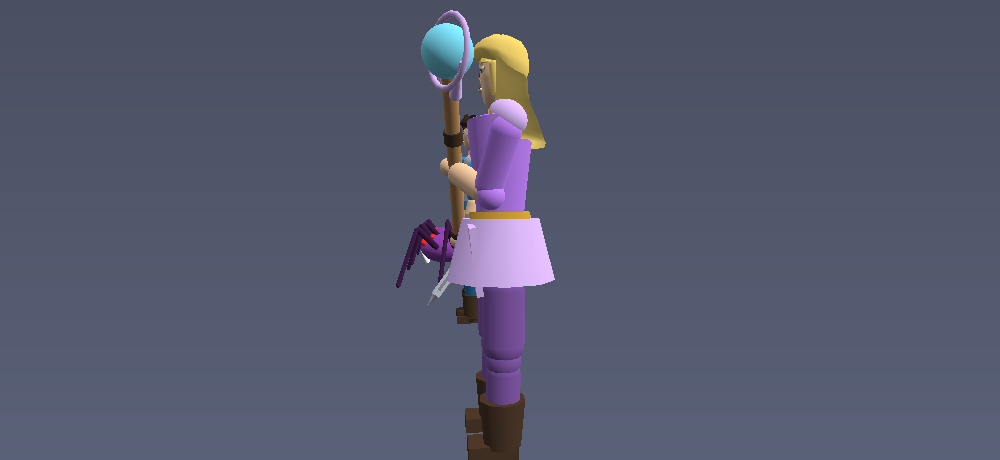
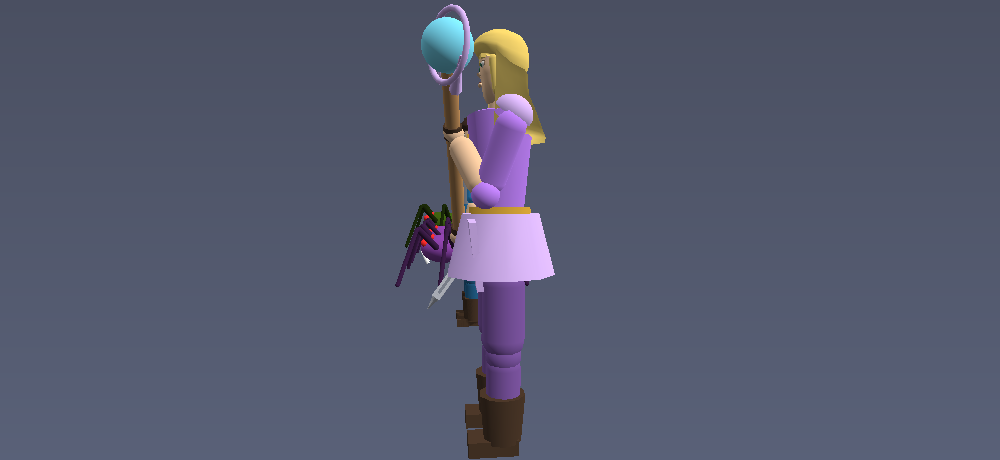
Плечо Елены, хват, направление каста, пояс и сумка Рюдо
Пять замечаний по силуэтам.

- ПРАВОЕ ПЛЕЧО ЕЛЕНЫ отрывалось от тела на 0.045. Причина: сустав стоит
  на x=0.50 у обоих (от него зависит хват посоха), а грудь у женской
  фигуры уже — 0.70 против 0.78. Добавлен armInset: меш плеча и
  наплечник подбираются к телу, сам сустав не тронут.
- ЛЕВАЯ КИСТЬ висела в 0.060 от оси древка при его радиусе 0.045 —
  между ладонью и посохом была щель. Пересчитано: промах 0.006.
- КАСТ В ЦЕЛЬ выносил посох вперёд, но кончик смотрел мимо (ось.z=0.39).
  Пересчитано с явным условием на направление: ось.z=0.75.
- ПОЯС РЮДО терялся сзади: его глубина 0.234 против 0.25 у ягодиц, он
  уходил под них. Расширен и сдвинут назад.
- ПОЯСНАЯ СУМКА читалась плоской 2D-полоской: 0.12 x 0.18 x 0.14, сзади
  виден только торец. Сделана почти кубической.

Следом пересчитаны windup, castTarget и castSelf: значения STAFF_POSES —
добавки к позе покоя, и после её правки хват рвался (0.22-0.27).

Пять новых тестов, все мутации ловятся. Мутацию на направление каста
пришлось делать точечной: грубая подмена позы роняла соседний тест по
хвату, и проверка направления оставалась недоказанной.

diff --git a/src/render/models.js b/src/render/models.js
@@ -59,8 +59,13 @@ export function createHumanoid(scene, {
     // плечами, широким тазом и более тонкими конечностями.
     const female = build === 'female';
     const B = {
-        shoulderX: 0.5,                      // разнос плеч: одинаков —
-                                             // от него зависит хват посоха
+        // Разнос плеч одинаков у обоих: от него зависит геометрия хвата
+        // посоха, и сужение уже один раз разваливало стойку.
+        shoulderX: 0.5,
+        // Зато плечо СДВИГАЕТСЯ К ТЕЛУ ровно настолько, насколько уже
+        // грудь. Иначе у узкой фигуры рука отрывается от корпуса: край
+        // груди 0.35, левый край руки 0.395 — зазор 0.045.
+        armInset: female ? 0.05 : 0,
         chestTop: female ? 0.70 : 0.78,      // ширина груди сверху
         chestBottom: female ? 0.46 : 0.5,
         waistTop: female ? 0.46 : 0.5,
@@ -151,7 +156,9 @@ export function createHumanoid(scene, {
         // вместе с рукой. На торсе он оставался на месте, и после разворота
         // рук наружу между ним и рукавом открывалась щель.
         pad.parent = side < 0 ? shoulderL : shoulderR;
-        pad.position.set(0.02 * side, 0.04, 0);
+        // Наплечник едет вместе с мешем руки: иначе у узкой фигуры между
+        // ним и корпусом остаётся щель.
+        pad.position.set((0.02 - B.armInset) * side, 0.04, 0);
         pad.rotation.z = side * 0.35;
         pad.material = weapon === 'staff' ? trim : steel;
     }
@@ -176,12 +183,15 @@ export function createHumanoid(scene, {
     seat.position.set(0, 0.02, -0.06);
     seat.material = clothDark;
 
+    // Пояс должен огибать и ягодицы: при глубине 0.23 против 0.25 у seat
+    // он сзади уходил ПОД них и терялся.
     const belt = track(MeshBuilder.CreateCylinder(`${id}_belt`, {
-        height: 0.13, diameter: 0.6, tessellation: 16,
+        height: 0.13, diameter: 0.62, tessellation: 16,
     }, scene));
     belt.parent = torso;
     belt.position.y = 0.02;
-    belt.scaling.z = 0.78;
+    belt.position.z = -0.02;
+    belt.scaling.z = 0.9;
     belt.material = leather;
 
     const buckle = track(MeshBuilder.CreateBox(`${id}_buckle`, {
@@ -322,11 +332,14 @@ export function createHumanoid(scene, {
             // Поясная сумка висит на ВНЕШНЕЙ стороне бедра. Прежний щиток
             // был вдвое крупнее и сидел спереди — читался как коричневая
             // коробка на животе, а не как карман.
+            // Сумка должна читаться объёмной с ЛЮБОГО ракурса. При
+            // 0.12 x 0.18 x 0.14 сзади был виден только торец — узкая
+            // коричневая полоска, похожая на плоский спрайт.
             const tasset = track(MeshBuilder.CreateBox(name, {
-                width: 0.12, height: 0.18, depth: 0.14,
+                width: 0.15, height: 0.17, depth: 0.17,
             }, scene));
             tasset.parent = parent;
-            tasset.position.set(0.15 * side, -0.12, 0.0);
+            tasset.position.set(0.16 * side, -0.12, 0.02);
             tasset.rotation.z = side * 0.1;
             tasset.material = leatherLight;
         }
@@ -603,8 +616,14 @@ export function createHumanoid(scene, {
     // Плечо чуть длиннее расстояния до локтя (0.52), чтобы капсулы
     // ПЕРЕКРЫВАЛИСЬ: иначе на сгибе видна ступенька между рукавом и
     // предплечьем — сустав ничем не закрыт.
-    limb(`${id}_upperArmL`, shoulderL, 0.6, B.armR, cloth);
-    limb(`${id}_upperArmR`, shoulderR, 0.6, B.armR, cloth);
+    // Меши плеч чуть подобраны к телу у узкой фигуры. Двигаем именно меш,
+    // а не сустав: сустав задаёт хват посоха и трогать его нельзя.
+    const armL = limb(`${id}_upperArmL`, shoulderL, 0.6, B.armR, cloth);
+    const armR = limb(`${id}_upperArmR`, shoulderR, 0.6, B.armR, cloth);
+    if (B.armInset) {
+        armL.position.x += B.armInset;
+        armR.position.x -= B.armInset;
+    }
     const foreArmL = limb(`${id}_foreArmL`, elbowL, 0.5, B.foreR, skin);
     const foreArmR = limb(`${id}_foreArmR`, elbowR, 0.5, B.foreR, skin);
 
@@ -835,8 +854,10 @@ export function createHumanoid(scene, {
         elbowR.rotation.x = -1.14;
         weaponPivot.rotation.set(1.10, -0.80, -0.10);
 
-        shoulderL.rotation.set(-0.54, 1.00, 0.05);
-        elbowL.rotation.x = -1.44;
+        // Кисть должна КАСАТЬСЯ древка: при промахе 0.060 и радиусе древка
+        // 0.045 между ладонью и посохом оставалась видимая щель.
+        shoulderL.rotation.set(-0.50, 0.90, 0.00);
+        elbowL.rotation.x = -2.00;
     }
 
     return {

diff --git a/src/render/Animator.js b/src/render/Animator.js
@@ -45,16 +45,16 @@ const SWING_SECONDS = 0.42;
  */
 export const STAFF_POSES = {
     castTarget: {
-        shoulderRX: 0.08, shoulderRZ: -0.10, elbowR: 0.07, wrist: 0.40,
-        shoulderLX: 0.07, shoulderLZ: 0.00, elbowL: 0.67,
+        shoulderRX: 0.30, shoulderRZ: -0.30, elbowR: -0.40, wrist: 1.00,
+        shoulderLX: -0.07, shoulderLZ: 0.00, elbowL: 1.29,
     },
     castSelf: {
-        shoulderRX: -0.40, shoulderRZ: -0.20, elbowR: -1.05, wrist: 1.45,
-        shoulderLX: -1.30, shoulderLZ: 0.00, elbowL: 1.30,
+        shoulderRX: -0.44, shoulderRZ: -0.30, elbowR: -0.60, wrist: 0.82,
+        shoulderLX: -0.70, shoulderLZ: 0.00, elbowL: 1.29,
     },
     windup: {
-        shoulderRX: -0.60, shoulderRZ: 0.45, elbowR: -0.33, wrist: 0.55,
-        shoulderLX: -0.93, shoulderLZ: 0.00, elbowL: 1.70,
+        shoulderRX: -0.70, shoulderRZ: 0.50, elbowR: -0.30, wrist: 0.47,
+        shoulderLX: -0.38, shoulderLZ: 0.00, elbowL: 0.67,
     },
     // Проводка: посох выносится ВПЕРЁД от корпуса.
     strike: {

diff --git a/ARCHITECTURE.md b/ARCHITECTURE.md
@@ -139,11 +139,11 @@
 
 ## 6. Тесты
 
-`npm test` — 148 тестов, без браузера:
+`npm test` — 153 теста, без браузера:
 
 - `tests/battle.test.mjs` (57) — логика боя на заглушках: инварианты HP, отсутствие зависаний, Cancel, Endure, стоимость ресурсов, ограничение дельты, а также перенесённые механики (яд, сон, контрудары, стихии, предметы, воскрешение, печати, групповые атаки, полоса линейного приёма, круг охвата групповых, прицеливание каста и проходимость всех составов боя). Тест на исход боя не требует победы — он проверяет отсутствие зависаний на 12 сидах; победа при внимательной игре и длительность боя вынесены в отдельные тесты с фиксированным RNG.
 - `tests/ui.test.mjs` (14) — реальный `UIController` в jsdom: HP-бары, выбор цели, отсутствие утечки стилей, экран исхода.
-- `tests/models.test.mjs` (70) — модели и анимация на настоящем Babylon (`NullEngine`): сборка ригов, реакция поз на анимацию, устойчивость к большой дельте кадра, габариты и посадка на пол в покое, на бегу и после смерти, траектория клинка при ударе и фазы каста, снятие подсветки при ударах внахлёст, единство меша головы и её пропорции, двуручный хват посоха и три режима каста, геометрия полосы удара.
+- `tests/models.test.mjs` (75) — модели и анимация на настоящем Babylon (`NullEngine`): сборка ригов, реакция поз на анимацию, устойчивость к большой дельте кадра, габариты и посадка на пол в покое, на бегу и после смерти, траектория клинка при ударе и фазы каста, снятие подсветки при ударах внахлёст, единство меша головы и её пропорции, двуручный хват посоха и три режима каста, геометрия полосы удара.
 - `tests/integration.test.mjs` (7) — полная связка Babylon `NullEngine` + jsdom: бой играется от начала до конца (~5600 кадров) и проверяется отсутствие ошибок в консоли.
 
 Тесты проверены мутационно: каждый ключевой тест падает, если соответствующий баг вернуть в код.
